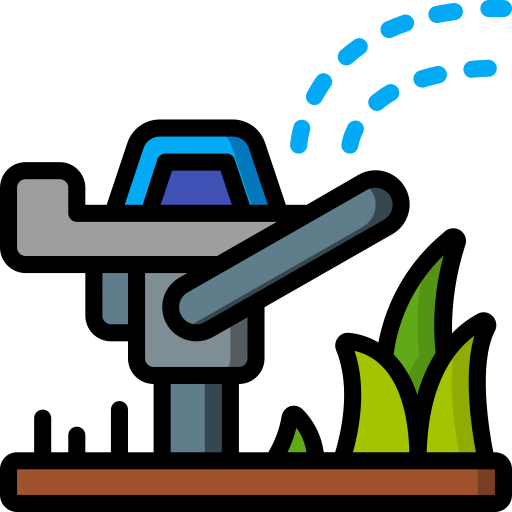
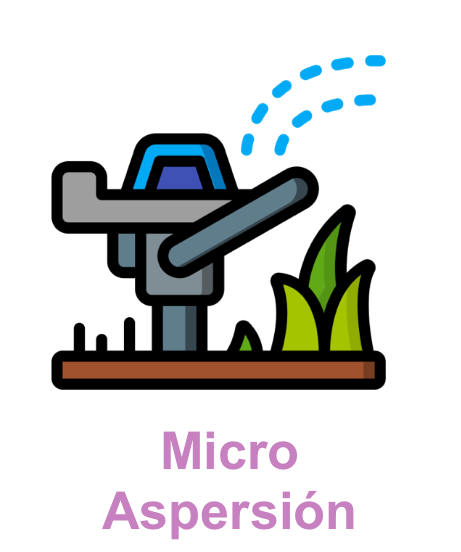
cambios de imagenes en drag and drop

diff --git a/scripts/dragAndDrop.js b/scripts/dragAndDrop.js
@@ -24,7 +24,7 @@ window.onload = function () {
             ]
         },
         {
-            title: 'Aspersion',
+            title: 'Aspersión',
             texto3: [
                 'Constante - Al estar poniendo agua por todas las zonas que necesiten',
                 'Barato - Instalar un regado por aspersion es bastante barato y eficiente pero con algunas perdidas de agua y dinero',
@@ -32,7 +32,7 @@ window.onload = function () {
             ]
         },
         {
-            title: 'Micro aspersion',
+            title: 'Micro Aspersión',
             texto3: [
                 'Menos zona - Este metodo es casi igual que el de aspersion con la diferencia de que abarca una pequeña zona',
                 'Mas facil - Puede se mas facil de instalar por que exiosten micro aspersores que son portables, no hace falta ponerlos bajo tierra',

diff --git a/info5.html b/info5.html
@@ -22,10 +22,12 @@
     <div id="cente">
     <div class="sis1">
     </div>
+    <div class="drag">
         <img class="ho" id="asper" src="img/asper.png" draggable="true">
         <img class="ho" id="tuborieg" src="img/tuborieg.png" draggable="true">
         <img class="ho" id="microasper" src="img/mircroasper.png" draggable="true">
         <img class="ho" id="tuberiagot" src="img/tuberiagot.png" draggable="true">
+    </div>
         <table id="tabla1">
             <tr>
                 <td>1</td>

diff --git a/css/styles.css b/css/styles.css
@@ -411,8 +411,8 @@ td.m06 {
 }
 
 .ho {
-    width: 80px;
-    height: 80px;
+    width: 110px;
+    height: 130px;
     transition: transform 0.3s ease;
     
 }
@@ -420,7 +420,9 @@ td.m06 {
 .ho:hover {
     transform: scale(1.1);
 }
-
+.drag{
+    margin-left: -40px;
+}
 #asper{
     margin-right: 30px;
     margin-bottom: 20px;
